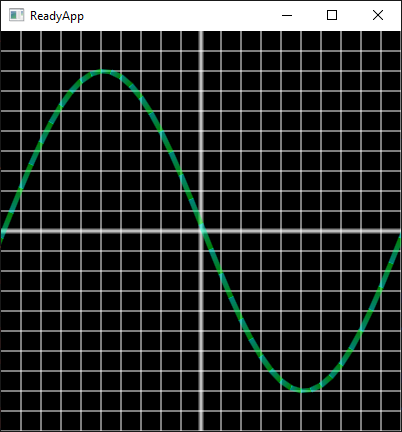
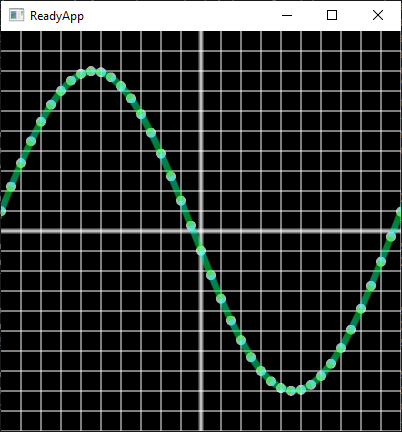
Initial Commit

Changed region(s): [[0.0, 0.1505, 1.0, 0.9329], [0.9851, 0.3009, 1.0, 0.331]]

diff --git a/Tutoriels/Software_Development/Cpp/page/main.php b/Tutoriels/Software_Development/Cpp/page/main.php
@@ -6730,7 +6730,7 @@ void GOpenGLUi::run(int argc, char** argv) {
         lOpenGL.grid(5.f, 1.f, 0.1f);
         lOpenGL.axis(5.f, 1.f , 5.f, {1.f, 1.f, 1.f, 0.5f});
         lPhase += 0.02f;
-        lOpenGL.sinus(0.8f, lPhase, 200, 10.f);
+        lOpenGL.sinus(0.8f, lPhase, 200, 10.f, 5.f, 10.f);
         lOpenGL.pollEvents();
     }
 
@@ -6746,8 +6746,8 @@ sGData* GFunction::sinus(float _max, float _phase, int _size, float _range) {
     }
     return m_data;
 }
-//===============================================</pre></div></div><br>Affichage des données<br><br><div class="GCode1"><div class="Code2"><pre class="AceCode" data-state="off" data-mode="c_cpp">//===============================================
-void GOpenGL::line(GFunction&amp; _func) {
+//===============================================</pre></div></div><br>Affichage des lignes de données<br><br><div class="GCode1"><div class="Code2"><pre class="AceCode" data-state="off" data-mode="c_cpp">//===============================================
+void GOpenGL::line(GFunction&amp; _func, float _linesize) {
     for(int i = 0; i &lt; _func.size() - 1; i++) {
         GLfloat x1 = _func.data()[i].x;
         GLfloat y1 = _func.data()[i].y;
@@ -6756,7 +6756,16 @@ void GOpenGL::line(GFunction&amp; _func) {
 
         sGVertex v1 = {x1, y1, 0.0f, 0.0f, 1.0f, 1.0f, 0.5f};
         sGVertex v2 = {x2, y2, 0.0f, 0.0f, 1.0f, 0.0f, 0.5f};
-        line(v1, v2, 4.0f);
+        line(v1, v2, _linesize);
+    }
+}
+//===============================================</pre></div></div><br>Affichage des points de données<br><br><div class="GCode1"><div class="Code2"><pre class="AceCode" data-state="off" data-mode="c_cpp">//===============================================
+void GOpenGL::point(GFunction&amp; _func, float _psize) {
+    for(int i = 0; i &lt; _func.size(); i++) {
+        GLfloat x = _func.data()[i].x;
+        GLfloat y = _func.data()[i].y;
+        sGVertex v = {x, y, 0.0f, 1.0, 1.0, 1.0, 0.7f};
+        point(v, _psize);
     }
 }
 //===============================================</pre></div></div><br><div class="Img3 GImage"><img src="/Tutoriels/Software_Development/Cpp/img/i_opengl_intro_sinus.png" alt="/Tutoriels/Software_Development/Cpp/img/i_opengl_intro_sinus.png"></div><br><h3 class="Title8 GTitle3">Création d'une carte de chaleur (Gaussian 2D)</h3><br>Programme principal<br><br><div class="GCode1"><div class="Code2"><pre class="AceCode" data-state="off" data-mode="c_cpp">//===============================================
@@ -6823,7 +6832,26 @@ void GOpenGL::heatMap(float _v, float _vmin, float _vmax, float&amp; _r, float&a
     if(_r &lt; 0) {_r = 0.f;}
     _g = 1.0f - _b - _r;
 }
-//===============================================</pre></div></div><br><div class="Img3 GImage"><img src="/Tutoriels/Software_Development/Cpp/img/i_opengl_intro_gaussian_2d.png" alt="/Tutoriels/Software_Development/Cpp/img/i_opengl_intro_gaussian_2d.png"></div><br><h2 class="Title7 GTitle2" id="Programmation-3D-avec-OpenGL-Fenetre"><a class="Link9" href="#Programmation-3D-avec-OpenGL">Fenêtre</a></h2><br><h3 class="Title8 GTitle3">Créer une fenêtre sous GLFW</h3><br>Création de la fenêtre<br><br><div class="GCode1"><div class="Code2"><pre class="AceCode" data-state="off" data-mode="c_cpp">//===============================================
+//===============================================</pre></div></div><br><div class="Img3 GImage"><img src="/Tutoriels/Software_Development/Cpp/img/i_opengl_intro_gaussian_2d.png" alt="/Tutoriels/Software_Development/Cpp/img/i_opengl_intro_gaussian_2d.png"></div><br><h3 class="Title8 GTitle3">Affichage de données ECG</h3><br>Programme principal<br><br><div class="GCode1"><div class="Code2"><pre class="AceCode" data-state="off" data-mode="c_cpp">//===============================================
+void GOpenGLUi::run(int argc, char** argv) {
+    GOpenGL lOpenGL;
+    lOpenGL.init();
+
+    int lCount = 0;
+
+    while (!lOpenGL.isClose()) {
+        lOpenGL.viewport();
+        lOpenGL.grid(5.f, 1.f, 0.1f);
+        lOpenGL.axis(5.f, 1.f , 5.f, {1.f, 1.f, 1.f, 0.5f});
+        if(lCount &gt; 5000) {lCount = 0;}
+        lCount += 5;
+        lOpenGL.ecg(data_ecg, lCount, 1024, 2.f);
+        lOpenGL.pollEvents();
+    }
+
+    lOpenGL.close();
+}
+//===============================================</pre></div></div><br><div class="Img3 GImage"><img src="/Tutoriels/Software_Development/Cpp/img/i_opengl_intro_ecg.png" alt="/Tutoriels/Software_Development/Cpp/img/i_opengl_intro_ecg.png"></div><br><h2 class="Title7 GTitle2" id="Programmation-3D-avec-OpenGL-Fenetre"><a class="Link9" href="#Programmation-3D-avec-OpenGL">Fenêtre</a></h2><br><h3 class="Title8 GTitle3">Créer une fenêtre sous GLFW</h3><br>Création de la fenêtre<br><br><div class="GCode1"><div class="Code2"><pre class="AceCode" data-state="off" data-mode="c_cpp">//===============================================
 void GOpenGLUi::run(int argc, char** argv) {
     sGApp* lApp = GManager::Instance()-&gt;getData()-&gt;app;
 
